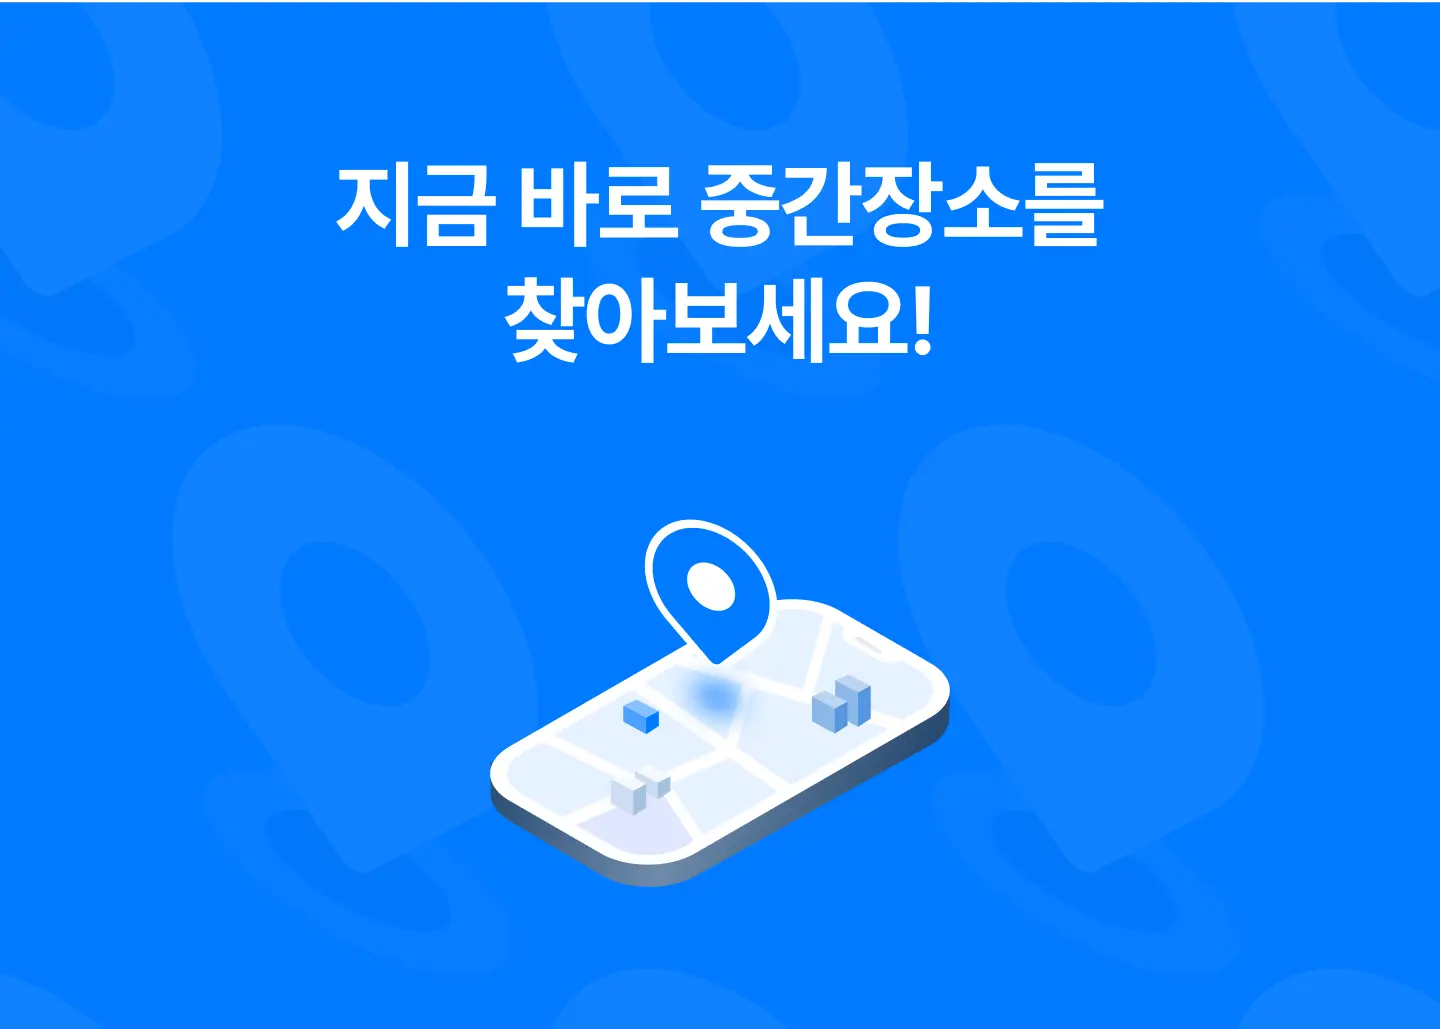
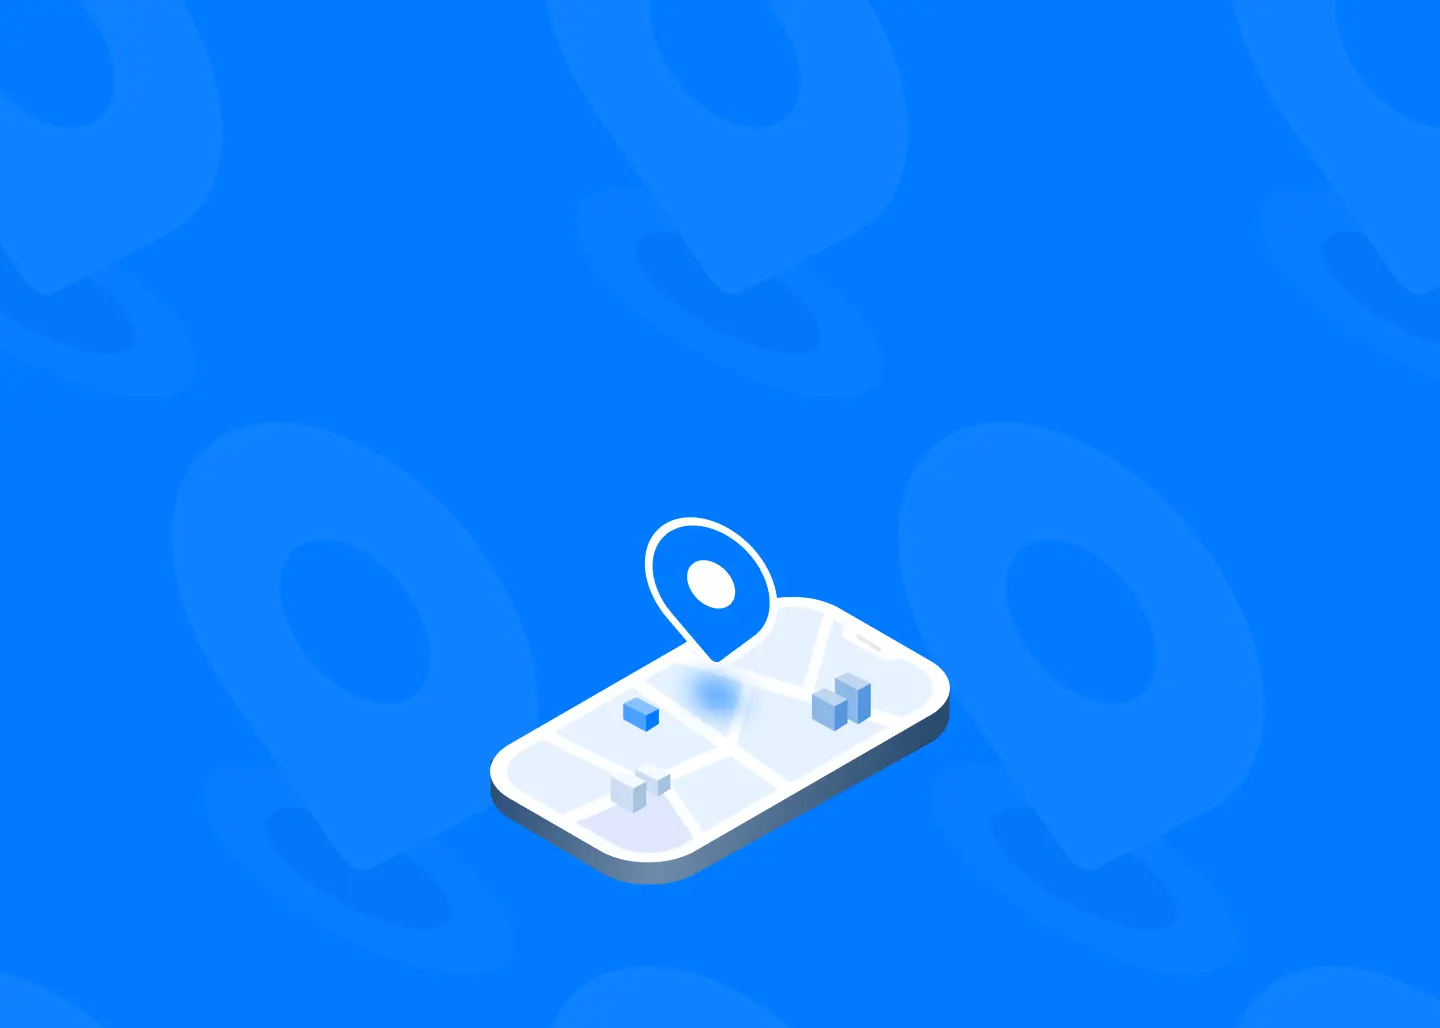
[fix] #SPOT-62 : 푸터 이미지 수정

diff --git a/src/features/main/ui/Footer.tsx b/src/features/main/ui/Footer.tsx
@@ -7,8 +7,12 @@ export const Footer = () => {
   const navigate = useNavigate();
 
   return (
-    <footer className="flex flex-col w-full">
-      <img src={FooterImg} alt="footerImg" className="w-full max-h-[400px] h-full" />
+    <footer className="relative flex flex-col w-full">
+      <img src={FooterImg} alt="footerImg" className="w-full max-h-[300px] h-full" />
+      <div className="w-full absolute top-9 left-1/2 -translate-x-1/2 flex flex-col items-center text-xxxl font-bold text-white">
+        <p>지금 바로 중간장소를</p>
+        <p>찾아보세요!</p>
+      </div>
       <div className="pt-8 pb-[116px] flex-col flex bg-gray-80 gap-[26px] px-5">
         <div className="flex justify-between items-center">
           <img src={Logo} alt="logo" className="w-[105px] h-[29px]" />
